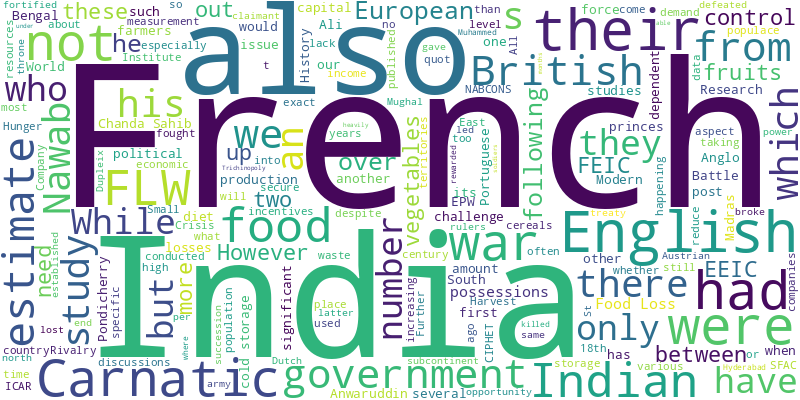
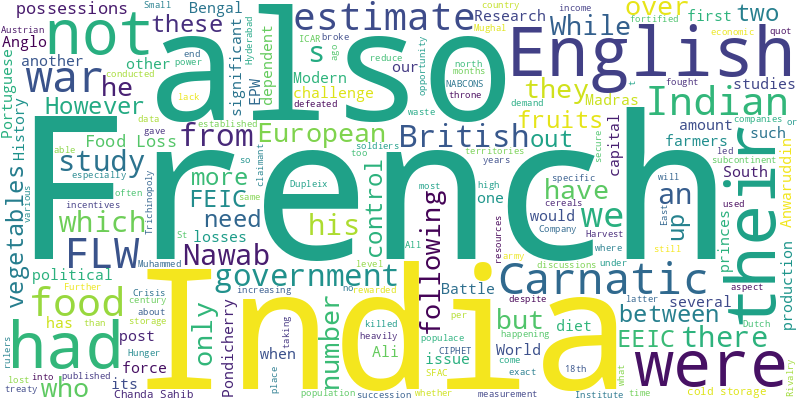
🤖 Auto-update stats

diff --git a/stats.html b/stats.html
@@ -18,7 +18,7 @@
     <section class="stats-section stat-card"><h2>📖 Readability</h2><p><strong>foodloss.html:</strong> Flesch: 37.2, Grade: 14.0</p><p><strong>Anglo-French-Rivalry.html:</strong> Flesch: 48.6, Grade: 11.3</p></section>
     <section class="stats-section stat-card"><h2>🙂 Sentiment</h2><p><strong>foodloss.html:</strong> Polarity: 0.04, Subjectivity: 0.48</p><p><strong>Anglo-French-Rivalry.html:</strong> Polarity: 0.03, Subjectivity: 0.22</p></section>
     <section class="stats-section stat-card"><h2>🏷️ Named Entities</h2><ul><li>NORP: 58.000</li><li>DATE: 27.000</li><li>GPE: 24.000</li><li>ORG: 12.000</li><li>PERSON: 9.000</li><li>CARDINAL: 8.000</li><li>LANGUAGE: 7.000</li><li>ORDINAL: 3.000</li><li>LOC: 2.000</li><li>PERCENT: 1.000</li></ul></section>
-    <section class="stats-section stat-card"><h2>🔑 Keywords</h2><p><strong>foodloss.html:</strong> food, flw, we, also, study, not, have, estimates, estimate, fruits</p><p><strong>Anglo-French-Rivalry.html:</strong> french, their, english, carnatic, india, were, had, war, british, his</p></section>
+    <section class="stats-section stat-card"><h2>🔑 Keywords</h2><p><strong>foodloss.html:</strong> food, flw, we, also, study, not, have, fruits, estimates, need</p><p><strong>Anglo-French-Rivalry.html:</strong> french, their, english, carnatic, india, had, were, british, war, his</p></section>
     <section class="stats-section stat-card"><h2>🌈 Word Cloud</h2><img src="wordcloud.png" alt="Word Cloud" /></section>
   </div>
 </body>